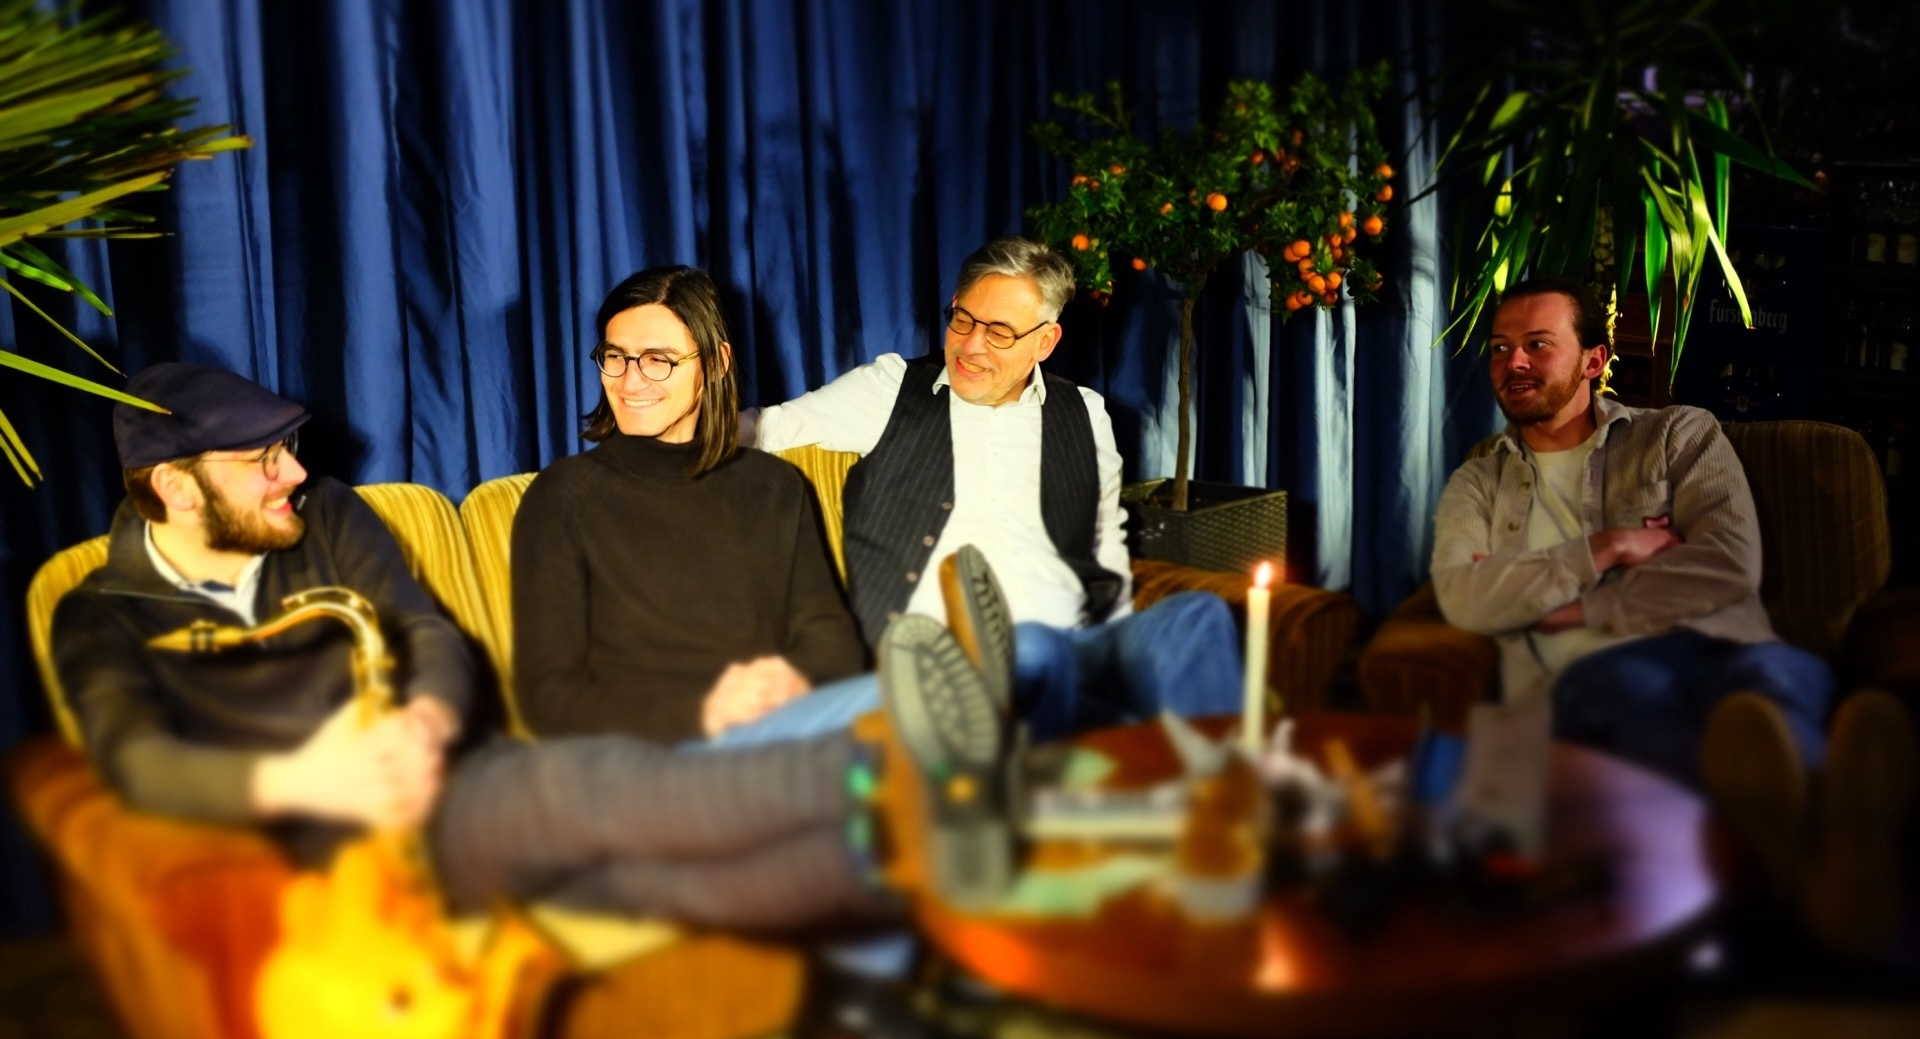
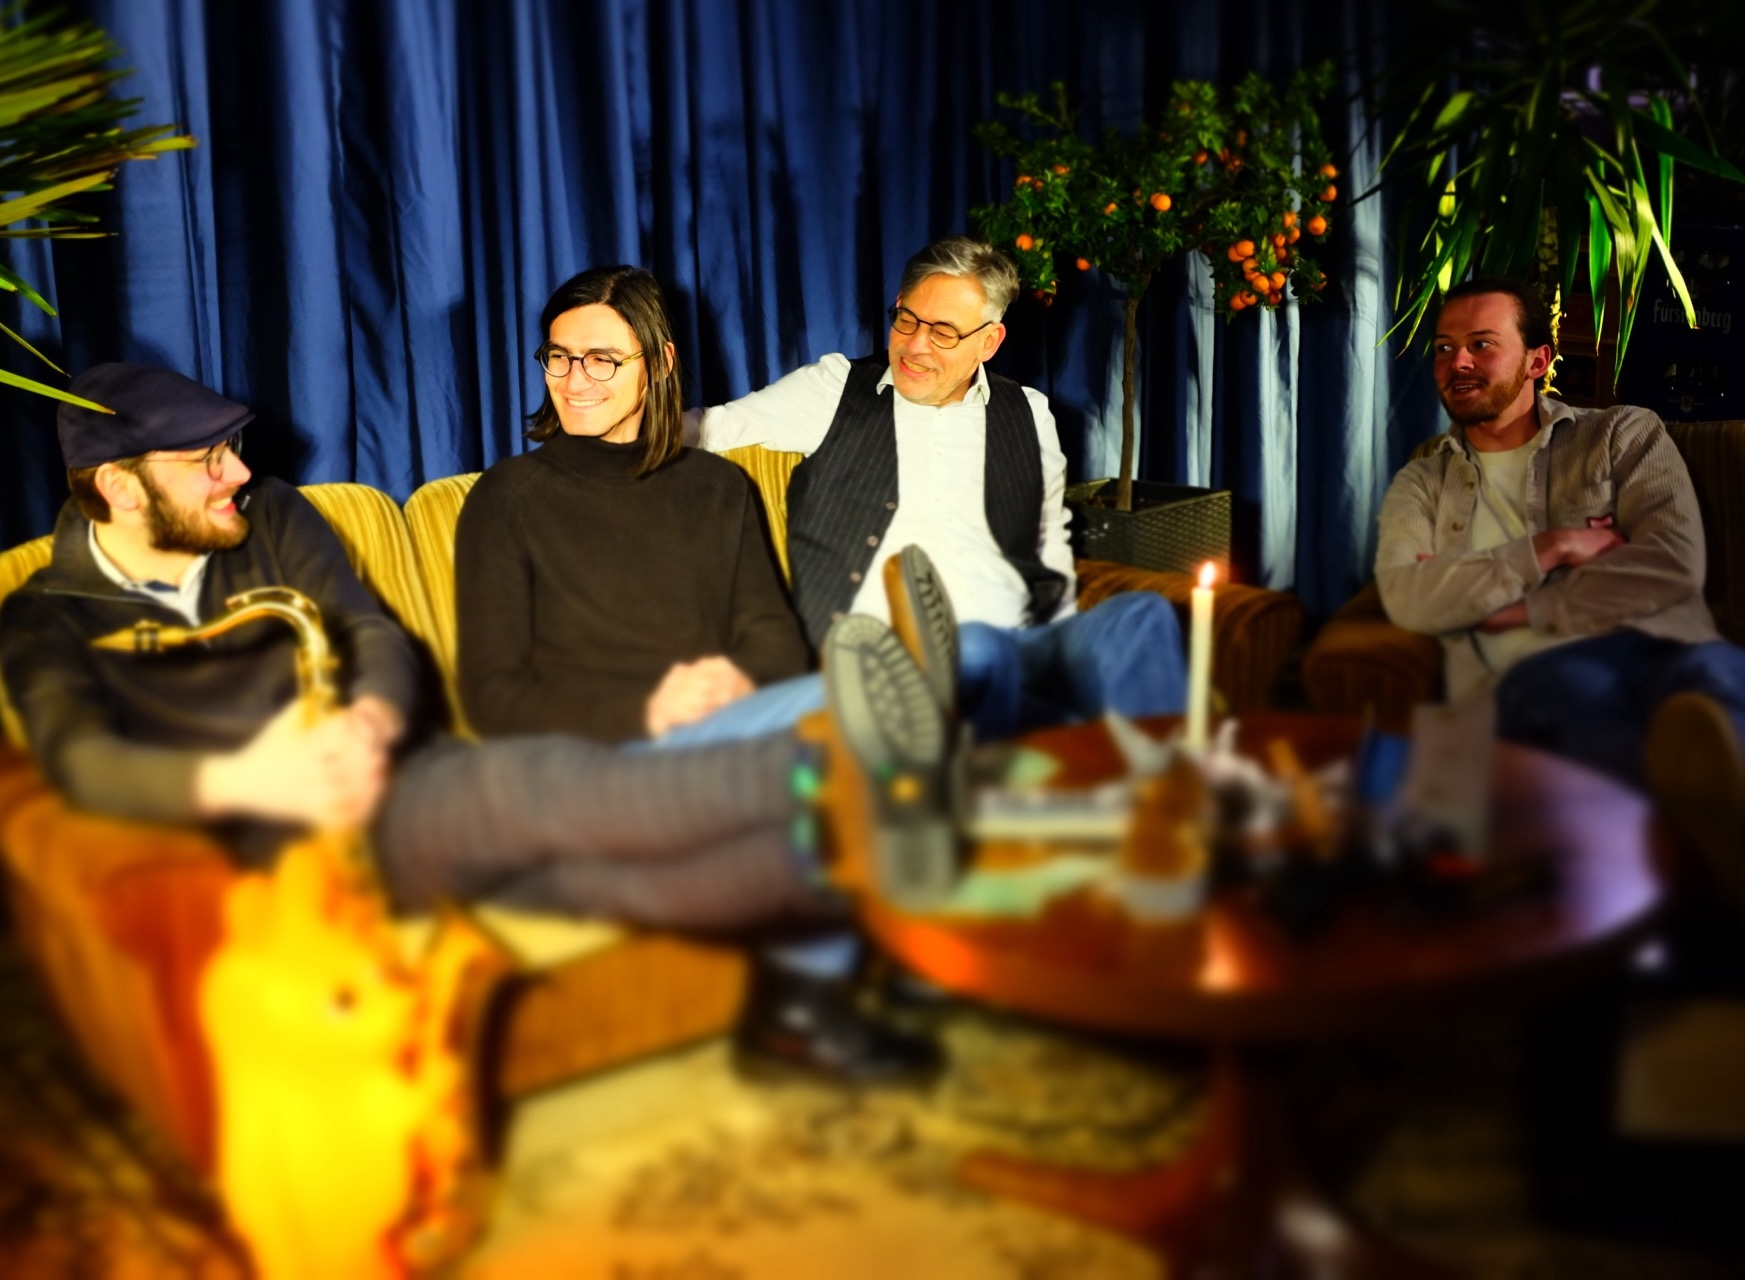
changed slider c

diff --git a/index.html b/index.html
@@ -422,6 +422,15 @@
 	</section>
 	<!-- end band Area -->
 
+	<!-- Jonas Area -->
+	<section class="gallery-area">
+		<div class="container-fluid p-0">
+			<div class="row no-gutters">
+				<img src="img/final_banner.jpg" alt="Tonkunst Poster" class="img-fluid w-100">
+			</div>
+		</div>
+	</section>
+
 	<section class="whole-wrap" id="auftritte">
 		<div class="container">
 			<div class="section-top-border">

diff --git a/css/main.css b/css/main.css
@@ -2257,7 +2257,7 @@ nav a:hover {
 
   .hero-carousel .carousel-inner,
   .hero-carousel .carousel-item {
-    height: clamp(360px, 72vh, 320px);
+    height: clamp(360px, 72vh, 220px);
     min-height: 360px;
   }
 
